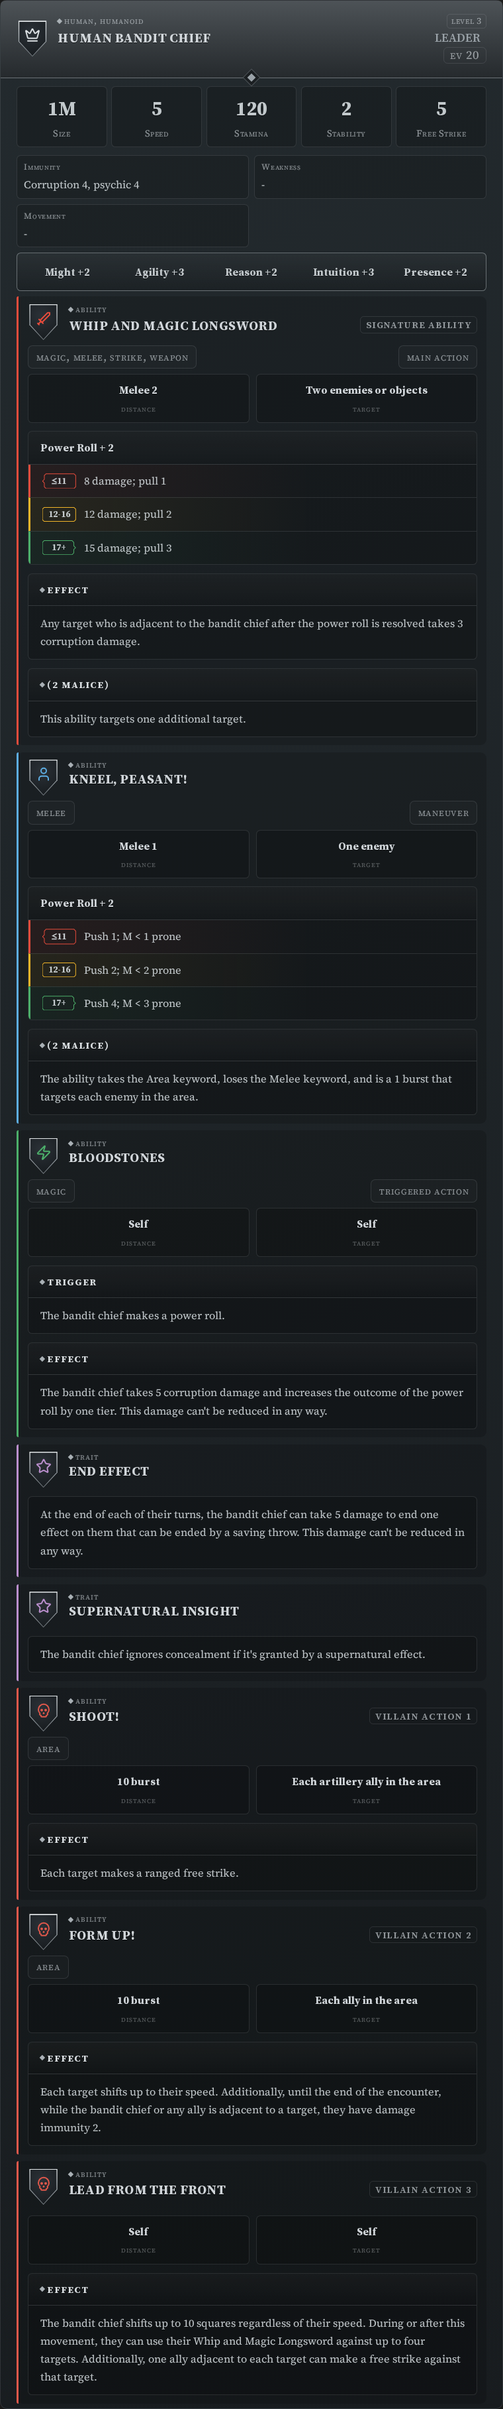
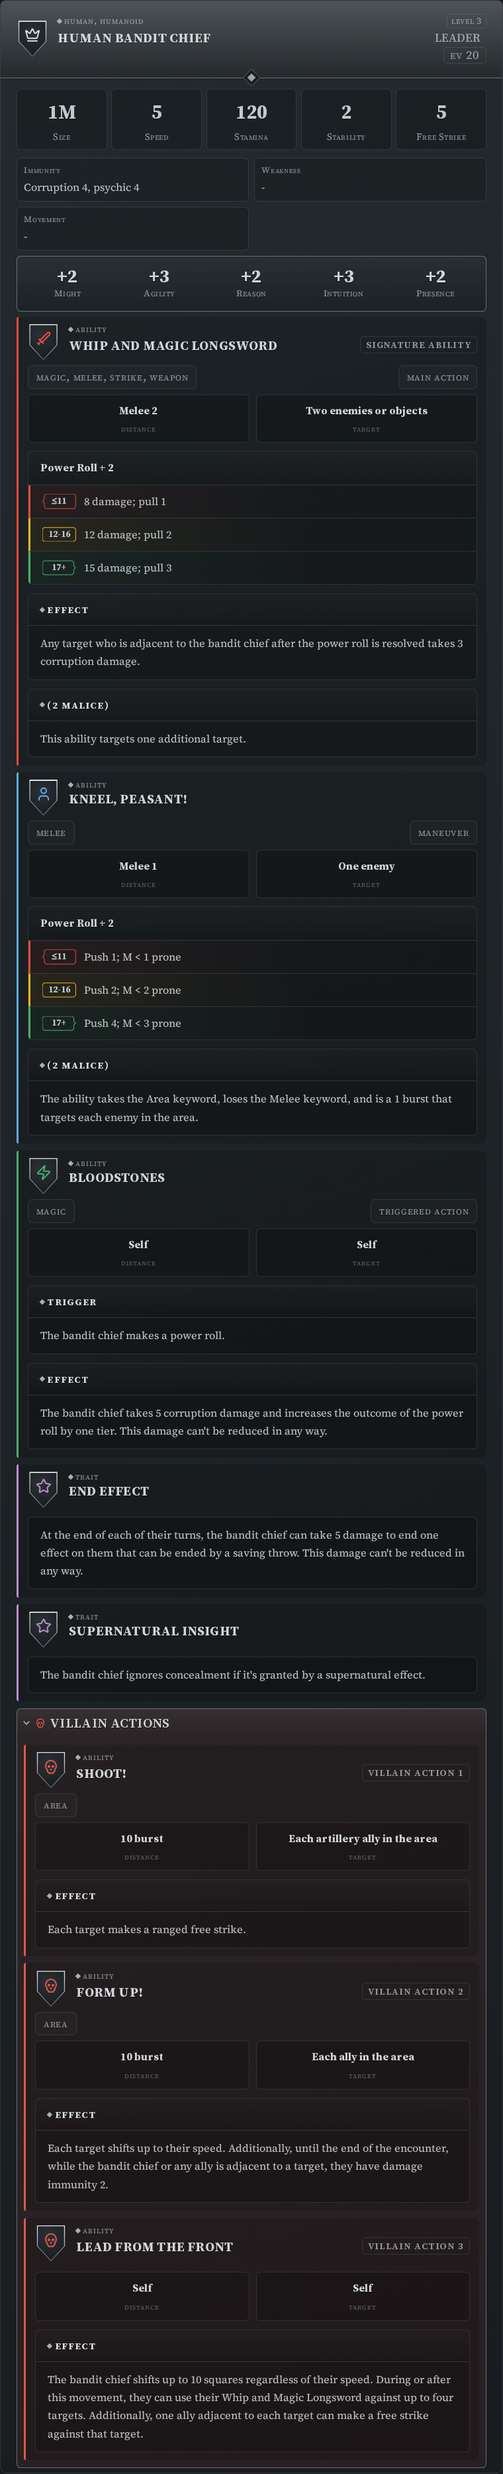
feat(prefs)!: default characteristics and villain actions to the site's shapes (SC-123)
The last two statblock defaults that diverged from the v2 site now match it:
sbCharLine 'one' -> 'two' (value over label) and sbVillain 'inline' -> 'banded'
(the collapsible Villain Actions band). sbCharBox='off' and distTarget='grid'
were already the site's values — verified, not assumed.

Both defaults were only ever plugin-shaped to hold the then-frozen legacy shots
byte-identical. SC-144 retired those shots, leaving the divergence with no reason
behind it, and Scott ruled on 2026-08-12: "nobody has this code yet. We dont have
to worry about breaking anyone. Lets do the correct thing."

The `steel` preset bundle moves with them. That is not cosmetic: the preset label
is derived rather than stored, so leaving the bundle behind would make a fresh
install open its dropdown reading "Custom" — a state nobody chose. A new test
pins bundle == descriptor defaults in both directions, plus the consequence
(an untouched store derives 'steel'), because that pair can otherwise drift
silently.

Conditional DOM: 'two' and 'banded' are now the DEFAULT build paths, so the
"default output preservation" guards that pinned the old shapes were retargeted
rather than deleted — each now pins the new default, with the old shape kept
under an explicit opt-in in reverse. Two consequences worth naming: the
content-loss tests still run at sbCharLine:'one' because they compare verbatim
merged strings ("Might +2") that only that shape produces, and the statblock is
[…]

diff --git a/test/dom/elements/statblock.test.ts b/test/dom/elements/statblock.test.ts
@@ -353,7 +353,7 @@ describe('Plan 09 Task 6b: statblock re-cast onto the D2 kit card grammar (§3.8
 	});
 
 	test('.dse-sb__chars: the five characteristics render as verbatim "Name +N" pairs, legacy order', async () => {
-		const { root } = await renderStatblock(humanBanditChief);
+		const { root } = await renderStatblock(humanBanditChief, {}, { sbCharLine: 'one' });
 
 		const chars = Array.from(root.querySelectorAll('.dse-sb__chars > .dse-sb__char')).map(
 			(el) => el.textContent,
@@ -361,8 +361,11 @@ describe('Plan 09 Task 6b: statblock re-cast onto the D2 kit card grammar (§3.8
 		expect(chars).toEqual(['Might +2', 'Agility +3', 'Reason +2', 'Intuition +3', 'Presence +2']);
 	});
 
+	// Pinned to sbCharLine:'one' deliberately: these two assert formatCharacteristic's
+	// output as ONE string, which only the merged shape produces. The default (split)
+	// form's value parity is asserted separately, per-part, below.
 	test('.dse-sb__chars formatting parity: negative "-N", zero "+0", missing "N/A" — the legacy formatCharacteristic verbatim', async () => {
-		const { root } = await renderStatblock(WITH_META);
+		const { root } = await renderStatblock(WITH_META, {}, { sbCharLine: 'one' });
 
 		const chars = Array.from(root.querySelectorAll('.dse-sb__chars > .dse-sb__char')).map(
 			(el) => el.textContent,
@@ -370,15 +373,33 @@ describe('Plan 09 Task 6b: statblock re-cast onto the D2 kit card grammar (§3.8
 		expect(chars).toEqual(['Might -1', 'Agility +2', 'Reason +0', 'Intuition +1', 'Presence N/A']);
 	});
 
-	test('SC-10 Task 4: at the DEFAULT settings .dse-sb__char stays ONE merged text node (a label/value DOM split was tried and reverted — see the renderChars comment; splitting shifted Chromium sub-pixel text shaping enough to fail the byte-identical LEGACY-FREEZE gate)', async () => {
+	// SC-10 Task 4 tried this split and had to revert it: two inline spans shifted
+	// Chromium's sub-pixel text shaping enough to fail the then-byte-identical freeze
+	// gate on the SCREEN shots. SC-123 brought it back as an opt-in so the frozen
+	// cameras kept shooting the merged node. Scott's 2026-08-12 ruling then made it the
+	// DEFAULT ("nobody has this code yet … lets do the correct thing"), and the frozen
+	// statblock print shots were rebaselined to match. Both shapes stay reachable and
+	// tested; only which one is the default moved.
+	test('at the DEFAULT settings .dse-sb__char is SPLIT into box/value/label — the site\'s shape', async () => {
 		const { root } = await renderStatblock(humanBanditChief);
+
+		const cell = root.querySelector('.dse-sb__chars > .dse-sb__char') as HTMLElement;
+		expect(Array.from(cell.children).map((el) => el.className)).toEqual([
+			'dse-sb__char-box', 'dse-sb__char-v', 'dse-sb__char-l',
+		]);
+		// No content loss against the merged form: same words, same order.
+		expect(cell.textContent).toBe('M+2Might');
+	});
+
+	test('sbCharLine="one" (opt-in) collapses the cell back to ONE merged text node', async () => {
+		const { root } = await renderStatblock(humanBanditChief, {}, { sbCharLine: 'one' });
 
 		const cell = root.querySelector('.dse-sb__chars > .dse-sb__char') as HTMLElement;
 		expect(cell.children).toHaveLength(0);
 		expect(cell.textContent).toBe('Might +2');
 	});
 
-	// —— SC-123: the characteristics split, opt-in only ——
+	// —— SC-123: the characteristics split (the default since the 2026-08-12 ruling) ——
 
 	test('sbCharLine="two" splits each cell into box/value/label (the site\'s .sb__char-* DOM), text verbatim', async () => {
 		const { root } = await renderStatblock(humanBanditChief, {}, { sbCharLine: 'two' });
@@ -414,20 +435,22 @@ describe('Plan 09 Task 6b: statblock re-cast onto the D2 kit card grammar (§3.8
 		expect(cells[4].querySelector('.dse-sb__char-box')!.textContent).toBe('P');
 	});
 
-	test('flipping a characteristics pref REMOUNTS the card (shape, not reflow) and flipping back restores the merged node', async () => {
+	test('flipping a characteristics pref REMOUNTS the card (shape, not reflow) and flipping back restores the default split', async () => {
 		const { root, deps } = await renderStatblock(humanBanditChief);
 		const cellOf = (): HTMLElement =>
 			root.querySelector('.dse-sb__chars > .dse-sb__char') as HTMLElement;
-		expect(cellOf().children).toHaveLength(0);
-
-		await deps.prefs.set('sbCharBox', 'onword');
-		await flushAsync(2);
+		// The default is now the split shape, so the round trip runs the other way.
 		expect(cellOf().children).toHaveLength(3);
 
-		await deps.prefs.set('sbCharBox', 'off');
+		await deps.prefs.set('sbCharLine', 'one');
 		await flushAsync(2);
 		expect(cellOf().children).toHaveLength(0);
 		expect(cellOf().textContent).toBe('Might +2');
+
+		await deps.prefs.set('sbCharLine', 'two');
+		await flushAsync(2);
+		expect(cellOf().children).toHaveLength(3);
+		expect(cellOf().textContent).toBe('M+2Might');
 	});
 
 	test("features render through Task 5's renderFeatureList: ◆ divider, then .dse-feature__nested > .dse-feature cards (shared grammar)", async () => {
@@ -440,17 +463,25 @@ describe('Plan 09 Task 6b: statblock re-cast onto the D2 kit card grammar (§3.8
 		const list = root.querySelector('.dse-sb > .dse-feature__nested') as HTMLElement;
 		expect(list).not.toBeNull();
 		const cards = list.querySelectorAll(':scope > .dse-feature');
-		expect(cards).toHaveLength(8);
 
-		const names = Array.from(cards).map(
-			(c) => c.querySelector('.dse-head__primary--left')!.textContent,
-		);
-		expect(names).toEqual([
+		// The default bands villain actions since the 2026-08-12 ruling, so the main run
+		// holds the five non-villain features and the band holds the three villain ones.
+		// Assert the SPLIT explicitly (it is the default's defining shape) and then that
+		// nothing was lost across the pair — all eight cards, in source order.
+		expect(cards).toHaveLength(5);
+		const band = root.querySelector<HTMLElement>('.dse-sb__band--villain')!;
+		expect(band.querySelectorAll('.dse-feature')).toHaveLength(3);
+
+		const nameOf = (c: Element): string | null =>
+			c.querySelector('.dse-head__primary--left')!.textContent;
+		expect(Array.from(cards).map(nameOf)).toEqual([
 			'Whip and Magic Longsword',
 			'Kneel, Peasant!',
 			'Bloodstones',
 			'End Effect',
 			'Supernatural Insight',
+		]);
+		expect(Array.from(band.querySelectorAll('.dse-feature')).map(nameOf)).toEqual([
 			'Shoot!',
 			'Form Up!',
 			'Lead From the Front',
@@ -533,10 +564,20 @@ describe('Plan 09 Task 6b: statblock re-cast onto the D2 kit card grammar (§3.8
 		);
 	});
 
-	// —— SC-123 / FOLLOWUPS #54: villain BANDING, opt-in only ——
+	// —— SC-123 / FOLLOWUPS #54: villain BANDING, the default since the 2026-08-12 ruling ——
 
-	test('sbVillain default ("inline") builds NO band — one flat list in source order (the LEGACY-FREEZE shape)', async () => {
+	test('sbVillain default ("banded") lifts the villain actions into a band — the site\'s shape', async () => {
 		const { root } = await renderStatblock(statblockVillainCorpus);
+
+		expect(root.querySelector('.dse-sb__band.dse-sb__band--villain')).not.toBeNull();
+		// The main run keeps every non-villain feature and loses none to the band.
+		const mainRun = root.querySelector<HTMLElement>('.dse-sb > .dse-feature__nested')!;
+		expect(mainRun.querySelector('.dse-feature[data-dse-act="villain"]')).toBeNull();
+		expect(mainRun.querySelector('.dse-feature[data-dse-act="main"]')).not.toBeNull();
+	});
+
+	test('sbVillain="inline" (opt-in) builds NO band — one flat list in source order', async () => {
+		const { root } = await renderStatblock(statblockVillainCorpus, {}, { sbVillain: 'inline' });
 
 		expect(root.querySelector('.dse-sb__band')).toBeNull();
 		expect(root.querySelectorAll('.dse-sb > .dse-feature__nested')).toHaveLength(1);
@@ -633,8 +674,12 @@ describe('Plan 09 Task 6b: statblock re-cast onto the D2 kit card grammar (§3.8
 		expect(root.querySelector('.dse-sb__chars')).not.toBeNull();
 	});
 
+	// Both content-loss tests run at sbCharLine:'one'. They compare against the legacy
+	// view tree's output as VERBATIM strings ("Might +2"), which only the merged cell
+	// produces — the default split spells the same words as "M+2Might". The default
+	// shape's own no-loss claim is asserted per-part in the characteristics tests above.
 	test('NO content loss: every field the legacy HeaderView/StatsView/FeaturesView tree rendered appears verbatim (bandit chief)', async () => {
-		const { root } = await renderStatblock(humanBanditChief);
+		const { root } = await renderStatblock(humanBanditChief, {}, { sbCharLine: 'one' });
 		const text = root.textContent!;
 
 		for (const expected of [
@@ -697,7 +742,7 @@ describe('Plan 09 Task 6b: statblock re-cast onto the D2 kit card grammar (§3.8
 	});
 
 	test('NO content loss: the featureless fixture keeps every fallback string verbatim', async () => {
-		const { root } = await renderStatblock(NO_FEATURES);
+		const { root } = await renderStatblock(NO_FEATURES, {}, { sbCharLine: 'one' });
 		const text = root.textContent!;
 
 		for (const expected of [
@@ -735,8 +780,27 @@ describe('Plan 09 Task 6b: statblock re-cast onto the D2 kit card grammar (§3.8
 		}
 	});
 
-	test('static: rendering never writes back (no replaceSource) and mounts NO interactive controls', async () => {
+	// Split in two by the 2026-08-12 default flip. The statblock is still a read-only
+	// render — it never writes back and mounts no EDITING affordance — but the banded
+	// villain default now ships one disclosure button (the kit collapsible's header).
+	// A disclosure is not an edit, so the claim is narrowed rather than dropped, and the
+	// absolute no-controls form is kept against the un-banded shape.
+	test('static: rendering never writes back, and the only control is the villain band\'s disclosure', async () => {
 		const { root, host } = await renderStatblock(humanBanditChief);
+		expect(host.replaceSource).not.toHaveBeenCalled();
+
+		const controls = Array.from(
+			root.querySelectorAll('button, input, select, textarea, [tabindex]'),
+		);
+		expect(controls).toHaveLength(1);
+		expect(controls[0].className).toBe('dse-collapse__header');
+		// A disclosure, not an input: it toggles visibility and nothing else.
+		expect(controls[0].getAttribute('aria-expanded')).toBe('true');
+		expect(root.querySelectorAll('.dse-error-card')).toHaveLength(0);
+	});
+
+	test('static: with villain banding off, the card mounts NO interactive control at all', async () => {
+		const { root, host } = await renderStatblock(humanBanditChief, {}, { sbVillain: 'inline' });
 		expect(host.replaceSource).not.toHaveBeenCalled();
 		expect(root.querySelector('button, input, select, textarea, [tabindex]')).toBeNull();
 		expect(root.querySelectorAll('.dse-error-card')).toHaveLength(0);

diff --git a/src/prefs/catalog.ts b/src/prefs/catalog.ts
@@ -54,17 +54,18 @@ declare module '../framework/seams/prefs' {
 		// data-sb-kwusage/-disttarget only reach its statblock feature block.
 		// sbCharLine/sbCharBox/sbVillain are statblock-only, like the site's.
 		//
-		// TWO DEFAULTS DIVERGE FROM THE SITE'S BY DESIGN: the site ships charline=two
-		// and villain=banded, and the plugin defaults to the single merged "Might +2"
-		// line and un-banded villain actions instead. That was chosen to hold the then-
-		// frozen legacy shots byte-identical; SC-144 retired those shots, so the reason
-		// is now history and "should the site-faithful shape be the default?" is a live
-		// design question — its own ticket, deliberately not answered by SC-144. Everything else matches the site's own
-		// SB_DEFAULTS verbatim, INCLUDING disttarget=grid (settings-panel.js:31-33;
-		// an earlier revision of this comment, and the SC-146 audit row S8 it came
-		// from, misread that default as `text` — corrected in the SC-123 fix round,
-		// review M-4). See the SB_PRESETS comment for what the two cost the
-		// "Steel card" bundle.
+		// EVERY DEFAULT HERE NOW MATCHES THE SITE'S OWN SB_DEFAULTS verbatim, including
+		// disttarget=grid (settings-panel.js:31-33; an earlier revision of this comment,
+		// and the SC-146 audit row S8 it came from, misread that default as `text` —
+		// corrected in the SC-123 fix round, review M-4).
+		//
+		// charline and villain were the last two holdouts. They defaulted to the single
+		// merged "Might +2" line and un-banded villain actions, chosen only to hold the
+		// then-frozen legacy shots byte-identical. SC-144 retired those shots, which left
+		// the divergence with no reason behind it, and Scott ruled on 2026-08-12: "nobody
+		// has this code yet. We dont have to worry about breaking anyone. Lets do the
+		// correct thing." So they ship the site's values — charline=two, villain=banded —
+		// and the frozen statblock print shots were rebaselined against that ruling.
 		kwUsage: 'crest' | 'text' | 'grid' | 'ledger';
 		distTarget: 'grid' | 'text' | 'ledger';
 		sbCharLine: 'one' | 'two';
@@ -337,7 +338,7 @@ export const DSE_PREF_DESCRIPTORS: readonly PrefDescriptor[] = [
 	// which would dress the global shape in local attributes (measured: "+2Might"), so
 	// a per-block `prefs:` map warns and ignores them. Global-only, deliberately. ——
 	d({
-		key: 'sbCharLine', default: 'one', attr: 'sb-charline', perBlock: false,
+		key: 'sbCharLine', default: 'two', attr: 'sb-charline', perBlock: false,
 		ui: {
 			group: 'Statblock display', inPreset: true, advanced: true,
 			label: 'Characteristics', control: 'select',
@@ -345,7 +346,7 @@ export const DSE_PREF_DESCRIPTORS: readonly PrefDescriptor[] = [
 				{ value: 'one', label: 'One line' },
 				{ value: 'two', label: 'Value over label' },
 			],
-			help: 'How each characteristic reads in the Might/Agility/Reason/Intuition/Presence rail. "One line" — the default — keeps today\'s single "Might +2" line; "Value over label" stacks the number above the word, like the website.',
+			help: 'How each characteristic reads in the Might/Agility/Reason/Intuition/Presence rail. "Value over label" — the default, matching the website — stacks the number above the word; "One line" puts them on a single "Might +2" line instead.',
 		},
 	}),
 	d({
@@ -362,7 +363,7 @@ export const DSE_PREF_DESCRIPTORS: readonly PrefDescriptor[] = [
 		},
 	}),
 	d({
-		key: 'sbVillain', default: 'inline', attr: 'sb-villain', perBlock: false,
+		key: 'sbVillain', default: 'banded', attr: 'sb-villain', perBlock: false,
 		ui: {
 			group: 'Statblock display', inPreset: true, advanced: true,
 			label: 'Villain actions', control: 'select',
@@ -370,7 +371,7 @@ export const DSE_PREF_DESCRIPTORS: readonly PrefDescriptor[] = [
 				{ value: 'inline', label: 'Inline with other features' },
 				{ value: 'banded', label: 'Grouped in a collapsible band' },
 			],
-			help: 'Where a statblock\'s villain actions render. "Inline" — the default — lists them among the other features in source order. "Grouped" collects them into one collapsible "Villain Actions" band below the rest, like the website. Print and export always show the band open.',
+			help: 'Where a statblock\'s villain actions render. "Grouped" — the default, matching the website — collects them into one collapsible "Villain Actions" band below the rest. "Inline" lists them among the other features in source order instead. Print and export always show the band open.',
 		},
 	}),
 
@@ -489,26 +490,25 @@ export const DSE_PREF_DESCRIPTORS: readonly PrefDescriptor[] = [
 // SC-123 then widened every bundle with the five NEW members, so a preset writes the
 // same SET of decisions the site's does (settings-panel.js:35-39). SC-146's corrected
 // values for the four original members are carried through unchanged — the two tickets
-// touch disjoint members of the same three objects. Two deliberate divergences remain,
-// both inherited from the byte-freeze era rather than chosen (see the note above the
-// SB_DEFAULTS block: SC-144 retired the legacy shots, so these are now open questions):
+// touch disjoint members of the same three objects.
 //
-//  1. **`steel` mirrors the plugin's DEFAULTS, not the site's Steel Card bundle.**
-//     The site's bundle sets `charline: two` and `villain: banded`; the plugin's
-//     defaults for those reproduce the pre-SC-123 rendering (one merged characteristic
-//     line, un-banded villain actions). Writing the
-//     site's values here would make a fresh install derive 'custom' instead of 'Steel
-//     card', i.e. the dropdown would open on a state the user never chose. So `steel`
-//     stays "the plugin's home look" and the site-faithful values live in the other two
-//     bundles. Flipping the defaults themselves is a separate, sanctioned-rebaseline
-//     decision for Scott (SC-123 report).
-//  2. `sourcebook`/`index` DO carry the site's values for every new member
-//     (kwUsage/distTarget/sbCharLine/sbCharBox/sbVillain), because neither is the
-//     default state and neither has a fidelity bar to clear. ——
+// **`steel` now equals the site's Steel Card bundle, and equals the plugin's defaults.**
+// It used to be neither: it mirrored the plugin's own defaults, which held `charline:
+// one` / `villain: inline` for byte-freeze reasons rather than design ones. Scott's
+// 2026-08-12 ruling flipped those defaults to the site's values, which collapses the
+// two into one — the bundle and the defaults now agree because they are both simply
+// "what the site does".
+//
+// The invariant that constrains this object is worth stating plainly, because it is the
+// thing a future edit can break silently: **`steel` MUST equal the descriptor defaults,
+// member for member.** The preset label is derived, never stored (deriveSbPreset), so a
+// fresh install that does not match any bundle opens its dropdown reading "Custom" — a
+// state the user never chose. Changing a default without changing this bundle (or the
+// reverse) produces exactly that. A test pins the equality in both directions. ——
 export const SB_PRESETS = {
 	steel: {
 		sbFeatureStyle: 'card', sbDensity: 'comfortable', sbColumns: 'single', sbStats: 'grid',
-		kwUsage: 'crest', distTarget: 'grid', sbCharLine: 'one', sbCharBox: 'off', sbVillain: 'inline',
+		kwUsage: 'crest', distTarget: 'grid', sbCharLine: 'two', sbCharBox: 'off', sbVillain: 'banded',
 	},
 	sourcebook: {
 		sbFeatureStyle: 'flat', sbDensity: 'comfortable', sbColumns: 'single', sbStats: 'ledger',

diff --git a/test/unit/prefs/catalog.test.ts b/test/unit/prefs/catalog.test.ts
@@ -19,7 +19,7 @@ test('every catalog key is unique and none shadows a builtin', () => {
 	expect(new Set(keys).size).toBe(keys.length);
 });
 
-test('defaults reproduce today\'s look (the legacy-fidelity bar)', () => {
+test('defaults match the v2 site\'s own SB_DEFAULTS (site-parity bar)', () => {
 	const store = makeStore();
 	expect(store.get('theme')).toBe('steel');
 	expect(store.get('reduceMotion')).toBe(false);
@@ -29,18 +29,15 @@ test('defaults reproduce today\'s look (the legacy-fidelity bar)', () => {
 	expect(store.get('sbDensity')).toBe('comfortable');     // statblock/view.ts static value
 	expect(store.get('sbColumns')).toBe('single');
 	expect(store.get('sbStats')).toBe('grid');
-	// SC-123. TWO of these deliberately DIVERGE from the site's own defaults (the site
-	// ships charline=two and villain=banded) because the bar here is "reproduce TODAY'S
-	// plugin rendering", and today's is the merged "Might +2" line and un-banded villain
-	// actions. `distTarget: grid` is NOT a divergence — the site's SB_DEFAULTS ship
-	// disttarget=grid too (settings-panel.js:31-33); the SC-146 audit's S8 row said
-	// `text` and that error propagated here, corrected in the SC-123 fix round (review
-	// M-4). See the SB_PRESETS comment.
+	// SC-123 + Scott's 2026-08-12 ruling. The bar used to be "reproduce TODAY'S plugin
+	// rendering", which held charline/villain away from the site for byte-freeze reasons.
+	// It is now plain site parity: every value below is the site's own SB_DEFAULTS
+	// (settings-panel.js:31-33, 35-39), no exceptions left.
 	expect(store.get('kwUsage')).toBe('crest');        // the SC-121 chip band
 	expect(store.get('distTarget')).toBe('grid');      // the SC-117/121 boxed rail
-	expect(store.get('sbCharLine')).toBe('one');       // the merged text node (freeze bar)
-	expect(store.get('sbCharBox')).toBe('off');        // …with no boxed letter
-	expect(store.get('sbVillain')).toBe('inline');     // no band has ever been built
+	expect(store.get('sbCharLine')).toBe('two');       // value over label, like the site
+	expect(store.get('sbCharBox')).toBe('off');        // …with no boxed letter (site too)
+	expect(store.get('sbVillain')).toBe('banded');     // the collapsible Villain Actions band
 	expect(store.get('fbFeatureStyle')).toBe('card');
 	expect(store.get('fbStats')).toBe('grid');         // was a hard-coded literal on the card
 	expect(store.get('collapsibleDefault')).toBe(true);     // old ComponentWrapper ?? true
@@ -235,6 +232,28 @@ test('preset derivation: defaults = steel; one divergence = custom; applySbPrese
 });
 
 // —— SC-123: the widened bundles ——
+
+// Scott's 2026-08-12 ruling flipped sbCharLine/sbVillain to the site's values, which made
+// the `steel` bundle and the descriptor defaults identical. That equality is now an
+// INVARIANT, not a coincidence, and it is the kind that breaks silently: the preset label
+// is derived rather than stored, so if a future edit moves a default without moving the
+// bundle (or the reverse), a fresh install opens its dropdown reading "Custom" — a state
+// nobody chose — and nothing else fails. Pinned in both directions.
+test('the steel bundle IS the descriptor defaults, member for member (a fresh install derives "Steel card")', () => {
+	const defaults = new Map(
+		DSE_PREF_DESCRIPTORS.filter((d) => prefUi(d)?.inPreset).map((d) => [d.key as string, d.default]),
+	);
+	// Same key set, so neither side can carry a member the other lacks.
+	expect(new Set(Object.keys(SB_PRESETS.steel))).toEqual(new Set(defaults.keys()));
+	// …and the same value for every one of them.
+	for (const [key, value] of defaults) {
+		expect(SB_PRESETS.steel[key as keyof typeof SB_PRESETS.steel]).toBe(value);
+	}
+	// The consequence, asserted directly rather than inferred: an untouched store derives
+	// the named preset, never 'custom'.
+	expect(deriveSbPreset(makeStore())).toBe('steel');
+});
+
 
 test('every preset writes the SAME member set, and that set is exactly the inPreset rows', async () => {
 	const members = new Set(

diff --git a/test/dom/framework/pref-reflection.test.ts b/test/dom/framework/pref-reflection.test.ts
@@ -34,9 +34,9 @@ test('reflect() stamps every catalog presentation default on a root (first-paint
 	// characteristics text node; see statblock/view.ts renderChars).
 	expect(root.getAttribute('data-dse-kwusage')).toBe('crest');
 	expect(root.getAttribute('data-dse-disttarget')).toBe('grid');
-	expect(root.getAttribute('data-dse-sb-charline')).toBe('one');
+	expect(root.getAttribute('data-dse-sb-charline')).toBe('two');
 	expect(root.getAttribute('data-dse-sb-charbox')).toBe('off');
-	expect(root.getAttribute('data-dse-sb-villain')).toBe('inline');
+	expect(root.getAttribute('data-dse-sb-villain')).toBe('banded');
 	expect(root.getAttribute('data-dse-fb-featstyle')).toBe('card');
 	expect(root.getAttribute('data-dse-fb-stats')).toBe('grid');
 	expect(root.getAttribute('data-dse-reduce-motion')).toBe('false');

diff --git a/CHANGELOG.md b/CHANGELOG.md
@@ -15,6 +15,17 @@ below ships as 7.0.0.
 Upgrading from 5.x or 6.0.1? See the [migration guide](docs/migrating-to-7.md)
 for what needs action.
 
+- **Statblocks now look like the website out of the box** (SC-123). Two display
+  settings shipped on the plugin's own historical look rather than the site's, and
+  they were the last two that differed. **Characteristics** now default to the
+  website's stacked presentation — the number on top, the name beneath it — instead
+  of a single "Might +2" line; and **Villain actions** now default to the website's
+  collapsible "Villain Actions" band below the rest of the features, instead of being
+  listed inline among them. Everything else already matched. Both settings still offer
+  the old presentation — Characteristics → "One line", Villain actions → "Inline with
+  other features" — and the "Steel card" preset now writes exactly these defaults, so a
+  fresh install shows "Steel card" rather than "Custom". This changes how existing
+  statblocks render, which is why it lands before 7.0.0 ships rather than after.
 - [BUGFIX] **The compendium search modal is readable again** (SC-159). Every result
   ran its name, type and source together into one unbroken string — a goblin listed
   itself as "Goblin Stinkerstatblockmcdm.monsters.v1". The row now has a real layout:
